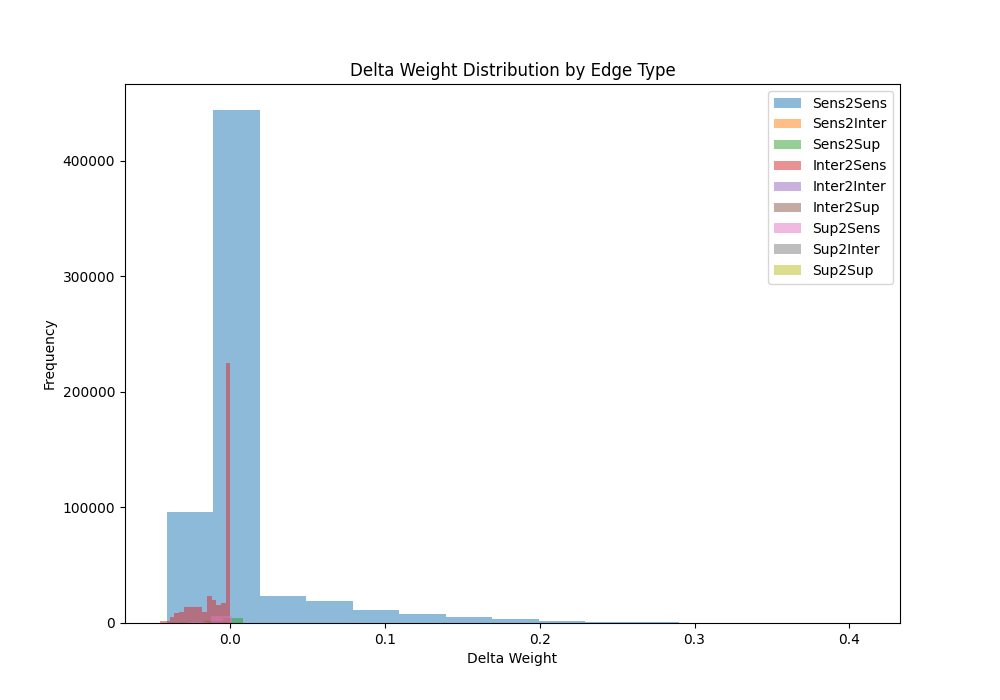
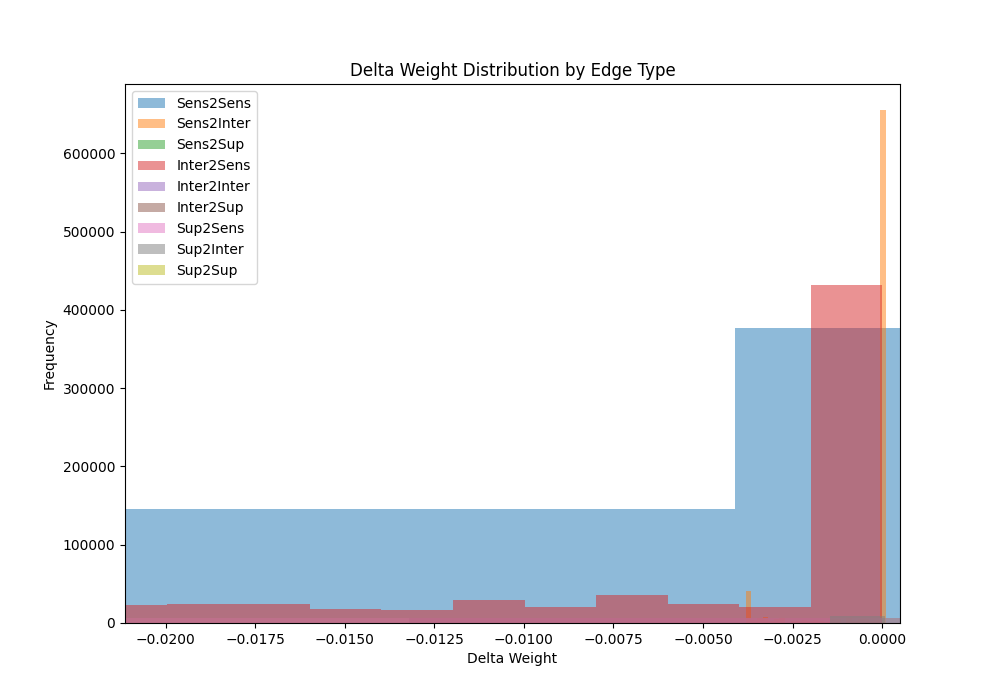
f

Changed region(s): [[0.062, 0.12, 0.899, 0.93], [0.062, 0.66, 0.124, 0.69], [0.062, 0.54, 0.124, 0.57]]

diff --git a/scr/train2.py b/scr/train2.py
@@ -829,9 +829,6 @@ for epoch in range(args.epochs):
                 earlystop = True
                 break
 
-            if idx % 3 == 0:
-                model.pc_conv1.log_delta_w()
-
             if idx >= 10:
                 print("Epoch checkpoint reached, saving model...")
 
@@ -839,15 +836,19 @@ for epoch in range(args.epochs):
                 # model_path = os.path.join(model_dir, model_filename)
                 # torch.save(model.state_dict(), model_path)
 
+                # if wandb is used omit this
+                if args.use_wandb not in ['online', 'run']:
+                    from helper.plot import plot_energy_during_training
 
-                from helper.plot import plot_energy_during_training
+                    plot_energy_during_training(model.pc_conv1.energy_vals["internal_energy"][:], 
+                                                model.pc_conv1.energy_vals["sensory_energy"][:],
+                                                history, 
+                                                model_dir=model_dir,
+                                                epoch=epoch)
+                    
 
-                plot_energy_during_training(model.pc_conv1.energy_vals["internal_energy"][:], 
-                                            model.pc_conv1.energy_vals["sensory_energy"][:],
-                                            history, 
-                                            model_dir=model_dir,
-                                            epoch=epoch)
-                
+                model.pc_conv1.log_delta_w()
+
                 # current_lr_values = model.pc_conv1.optimizer_values.param_groups[0]['lr']
                 # print(f"Current LR for values: {current_lr_values}")
 
@@ -916,6 +917,25 @@ for epoch in range(args.epochs):
         "generation/MSE_mean": avg_MSE_mean,
         "generation/MSE_max": avg_MSE_max,
     })
+
+
+    test_params = {
+        "model_dir": model_dir,
+        "T": 140,
+        "supervised_learning":True, 
+        "num_samples": 2,
+        "add_sens_noise": False,
+        "num_wandb_img_log": 2,
+    }
+
+    # model.pc_conv1.lr_values = 0.1 
+    # model.pc_conv1.lr_values = model_params["lr_params"][0]
+
+    MSE_values_occ = occlusion(test_loader, model, test_params)
+
+    test_params["add_sens_noise"] = True
+    MSE_values_occ_noise = occlusion(test_loader, model, test_params)
+
 
     # every 5 epochs 
     if epoch % 5 == 0:

diff --git a/scr/models/PC.py b/scr/models/PC.py
@@ -217,11 +217,15 @@ class PCGraphConv(torch.nn.Module):
             "weights": None, 
         }
 
+        self.scheduler_weights = None
+
+        self.use_optimizers = False
+
         if self.use_optimizers:
             
             weight_decay = self.use_optimizers[0]
 
-            print("------------Using optimizers for values/weights updating ------------")
+            print(f"------------Using optimizers with weight_decay {weight_decay} ------------")
             # self.optimizer_weights = torch.optim.Adam([self.weights], lr=self.lr_weights, weight_decay=1e-2) #weight_decay=1e-2)        
             # self.optimizer_weights = torch.optim.SGD([self.weights], lr=self.lr_weights)
             # self.optimizer_weights = torch.optim.SGD([self.weights], lr=self.gamma) #weight_decay=1e-2)
@@ -238,9 +242,11 @@ class PCGraphConv(torch.nn.Module):
             lr_scheduler = False        
             if lr_scheduler:
                 self.scheduler_weights = torch.optim.lr_scheduler.ReduceLROnPlateau(self.optimizer_weights, mode='min', patience=10, factor=0.1)
-            else:
-                self.scheduler_weights = None
-   
+
+            # log wandb that using optim in delta_w/
+            self.wandb_logger.log({"Using optimizer for delta_w": True})
+
+
         self.effective_learning = {}
         self.effective_learning["w_mean"] = []
         self.effective_learning["w_max"] = []
@@ -1204,6 +1210,13 @@ class PCGraphConv(torch.nn.Module):
                 if self.wandb_logger:
                     histograms[f"delta_w/{etype_name}_mean"] = float('nan')
                     histograms[f"delta_w/{etype_name}_max"] = float('nan')
+
+        # Compute the 5th and 95th percentiles of delta_w values
+        delta_min = np.percentile(delta_w.cpu().numpy(), 5)
+        delta_max = np.percentile(delta_w.cpu().numpy(), 95)
+
+        # Cap the x-axis based on the computed percentiles
+        plt.xlim(delta_min, delta_max)
 
         # Add title, labels, and legend to the combined histogram plot
         plt.title("Delta Weight Distribution by Edge Type")
